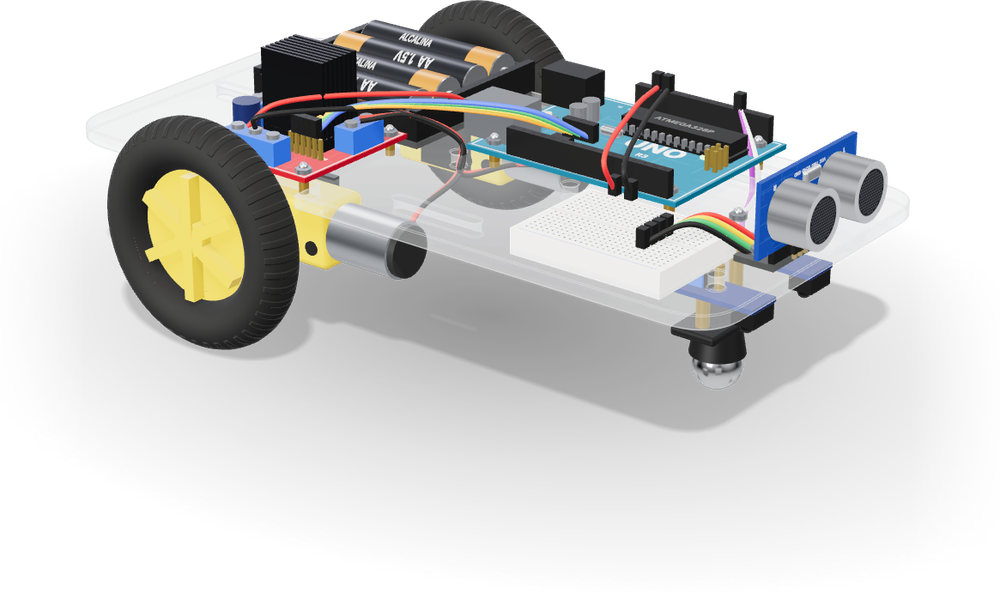
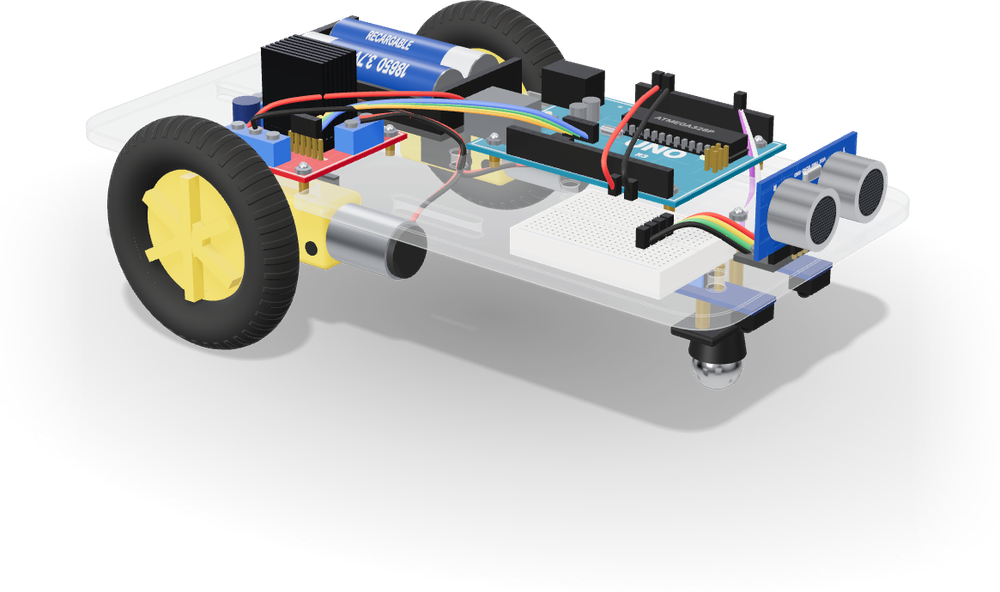
Coche y brazo con portabaterías de dos baterías 18650
Coche 3D de la portada, foto del kit, trasera de la tarjeta láser del
coche, preguntas frecuentes y descripción de las fichas.

Claude-Session: https://claude.ai/code/session_01BpuiLodbabt61LyiaNsDMw

Changed region(s): [[0.31, 0.0304, 0.558, 0.2736], [0.248, 0.0912, 0.279, 0.152]]

diff --git a/frontend/src/components/portada/modeloCoche.ts b/frontend/src/components/portada/modeloCoche.ts
@@ -2,7 +2,7 @@
  * MODELO 3D DEL COCHE SEGUIDOR DE LÍNEAS (portada)
  * Las piezas reales del kit, hechas con formas sencillas y texturas dibujadas en canvas:
  * chasis de metacrilato, placa UNO, protoboard, driver L298N, dos motores TT amarillos con
- * sus ruedas, sensor de ultrasonidos HC-SR04, dos sensores de línea, portapilas 4×AA y cables.
+ * sus ruedas, sensor de ultrasonidos HC-SR04, dos sensores de línea, portabaterías con dos baterías 18650 y cables.
  *
  * Medidas: 1 unidad ≈ 8,5 cm. El eje x apunta hacia delante (donde están los sensores),
  * y hacia arriba y z hacia los lados. El suelo está en y = SUELO.
@@ -549,36 +549,37 @@ export function crearModeloCoche(): ModeloCoche {
   }
 
   // ------------------------------------------------------------------
-  // BATERÍA: portapilas negro con cuatro pilas AA, atrás a la izquierda
+  // BATERÍA: portabaterías negro con dos baterías recargables 18650, atrás a la izquierda
+  // (Jesse, 06-11-2026: los kits van con baterías recargables, no con pilas AA)
   // ------------------------------------------------------------------
   {
     const { mat, malla } = crear("bateria");
     const bx = -0.62;
     const bz = -0.3;
     const negro = mat({ color: 0x141414, roughness: 0.55 });
-    malla(g(new BoxGeometry(0.72, 0.02, 0.64)), negro, bx, 0.01, bz);
-    const pared = g(new BoxGeometry(0.72, 0.1, 0.02));
-    malla(pared, negro, bx, 0.06, bz - 0.31);
-    malla(pared, negro, bx, 0.06, bz + 0.31);
-    const testa = g(new BoxGeometry(0.03, 0.12, 0.64));
-    malla(testa, negro, bx - 0.345, 0.07, bz);
-    malla(testa, negro, bx + 0.345, 0.07, bz);
-    // Pilas: envoltorio impreso (cuerpo oscuro, franja cobre y texto) y extremos metálicos
+    malla(g(new BoxGeometry(0.76, 0.02, 0.44)), negro, bx, 0.01, bz);
+    const pared = g(new BoxGeometry(0.76, 0.12, 0.02));
+    malla(pared, negro, bx, 0.07, bz - 0.21);
+    malla(pared, negro, bx, 0.07, bz + 0.21);
+    const testa = g(new BoxGeometry(0.03, 0.16, 0.44));
+    malla(testa, negro, bx - 0.365, 0.09, bz);
+    malla(testa, negro, bx + 0.365, 0.09, bz);
+    // Baterías 18650 (18 × 65 mm): envoltorio impreso y extremos metálicos
     const envoltorio = mat({ map: tx(texturaPila()), metalness: 0.3, roughness: 0.32 });
     const acero = mat({ color: 0xcfd2d6, metalness: 1, roughness: 0.2 });
-    const cuerpo = g(new CylinderGeometry(0.072, 0.072, 0.58, 40, 1, true));
-    const tapa = g(new CylinderGeometry(0.07, 0.07, 0.01, 28));
-    const polo = g(new CylinderGeometry(0.025, 0.025, 0.03, 16));
-    for (let i = 0; i < 4; i++) {
-      const z = bz - 0.225 + i * 0.15;
-      const sentido = i % 2 === 0 ? 1 : -1; // alternadas, como en un portapilas de verdad
-      // rotation.z = -π/2 lleva la parte de arriba del cilindro (la franja cobre) hacia +x
-      const pila = malla(cuerpo, envoltorio, bx, 0.095, z);
-      pila.rotation.z = -sentido * (Math.PI / 2);
-      pila.rotation.x = 0.6;
-      malla(tapa, acero, bx + sentido * 0.29, 0.095, z).rotation.z = Math.PI / 2;
-      malla(tapa, acero, bx - sentido * 0.29, 0.095, z).rotation.z = Math.PI / 2;
-      malla(polo, acero, bx + sentido * 0.305, 0.095, z).rotation.z = Math.PI / 2;
+    const cuerpo = g(new CylinderGeometry(0.09, 0.09, 0.62, 40, 1, true));
+    const tapa = g(new CylinderGeometry(0.088, 0.088, 0.01, 28));
+    const polo = g(new CylinderGeometry(0.03, 0.03, 0.02, 16));
+    for (let i = 0; i < 2; i++) {
+      const z = bz - 0.095 + i * 0.19;
+      const sentido = i % 2 === 0 ? 1 : -1; // alternadas, como en un portabaterías de verdad
+      // rotation.z = -π/2 lleva la parte de arriba del cilindro (la franja de color) hacia +x
+      const bateria = malla(cuerpo, envoltorio, bx, 0.115, z);
+      bateria.rotation.z = -sentido * (Math.PI / 2);
+      bateria.rotation.x = 0.6;
+      malla(tapa, acero, bx + sentido * 0.31, 0.115, z).rotation.z = Math.PI / 2;
+      malla(tapa, acero, bx - sentido * 0.31, 0.115, z).rotation.z = Math.PI / 2;
+      malla(polo, acero, bx + sentido * 0.325, 0.115, z).rotation.z = Math.PI / 2;
     }
   }
 
@@ -674,7 +675,7 @@ export function crearModeloCoche(): ModeloCoche {
           false,
         );
     }
-    // Portapilas → borne de alimentación del driver
+    // Portabaterías → borne de alimentación del driver
     cable(
       R,
       [

diff --git a/frontend/src/components/portada/texturasRobot.ts b/frontend/src/components/portada/texturasRobot.ts
@@ -195,27 +195,28 @@ export const texturaDibujoNeumatico = () => {
   return t;
 };
 
-/** Envoltorio de una pila AA: cuerpo oscuro, franja cobre en el polo positivo y el texto */
+/** Envoltorio de una batería recargable 18650: cuerpo azul, franja clara en el polo positivo y el texto */
 export const texturaPila = () => {
   const t = textura(256, 512, (ctx, w, h) => {
     const degradado = ctx.createLinearGradient(0, 0, w, 0);
-    degradado.addColorStop(0, "#1d1f23");
-    degradado.addColorStop(0.5, "#2c2f35");
-    degradado.addColorStop(1, "#1d1f23");
+    // Batería recargable 18650: envoltorio azul con franja clara
+    degradado.addColorStop(0, "#1b3a7a");
+    degradado.addColorStop(0.5, "#2a55a8");
+    degradado.addColorStop(1, "#1b3a7a");
     ctx.fillStyle = degradado;
     ctx.fillRect(0, 0, w, h);
-    ctx.fillStyle = "#c47a36";
+    ctx.fillStyle = "#d9dde6";
     ctx.fillRect(0, 0, w, h * 0.2);
     ctx.fillStyle = "#e8e8e8";
     ctx.save();
     ctx.translate(w * 0.25, h * 0.6);
     ctx.rotate(-Math.PI / 2);
-    texto(ctx, "AA  1.5V", 0, 0, 34, 700, "center");
+    texto(ctx, "18650  3.7V", 0, 0, 34, 700, "center");
     ctx.restore();
     ctx.save();
     ctx.translate(w * 0.75, h * 0.6);
     ctx.rotate(-Math.PI / 2);
-    texto(ctx, "ALCALINA", 0, 0, 24, 600, "center");
+    texto(ctx, "RECARGABLE", 0, 0, 24, 600, "center");
     ctx.restore();
   });
   return t;

diff --git a/frontend/src/config/preguntas.ts b/frontend/src/config/preguntas.ts
@@ -57,7 +57,7 @@ export function preguntasFrecuentes({
           pregunta: "¿Qué necesito además del kit?",
           respuesta: [
             "Un ordenador (Windows, Mac o Linux) para programar la placa. El programa que se usa, Arduino, es gratuito y en el curso te enseñamos a instalarlo paso a paso. El cable USB para conectar la placa al ordenador va en la caja.",
-            "El coche funciona con 4 pilas AA y el brazo, que tiene servos de mucha fuerza, con dos baterías recargables. Las pilas y las baterías ya vienen en la caja. La estación meteorológica no necesita pilas: va conectada por USB.",
+            "El coche y el brazo funcionan con dos baterías recargables 18650, y ya vienen en la caja. La estación meteorológica no necesita baterías: va conectada por USB.",
           ],
         },
         {

diff --git a/frontend/src/lib/tarjetaLaser/dibujosKit.ts b/frontend/src/lib/tarjetaLaser/dibujosKit.ts
@@ -154,9 +154,9 @@ function coche(): Forma[] {
   g.push(relleno(rect(-1.2, -5.6, 4.8, 1.6)));
   g.push(relleno(rect(-7, -6.6, 2.2, 2.4)));
   g.push(relleno(rect(-4.2, -3.6, 1.6, 1.3)));
-  // Portapilas con las 4 pilas
+  // Portabaterías con las 2 baterías recargables 18650
   g.push(sil(caja(-4.6, 0.4, 9.2, 9, 0.6), 0.32));
-  for (const x of [-3.3, -1.1, 1.1, 3.3]) g.push(sil(capsula([x, 2.2], [x, 7.6], 0.75), 0.25));
+  for (const x of [-2.2, 2.2]) g.push(sil(capsula([x, 2.4], [x, 7.4], 1.45), 0.25));
   // Motores con reductora y ruedas con el dibujo de la goma
   for (const lado of [-1, 1]) {
     const xm = lado < 0 ? -8 : 5.2;

diff --git a/frontend/src/app/(tienda)/kits/[slug]/page.tsx b/frontend/src/app/(tienda)/kits/[slug]/page.tsx
@@ -60,7 +60,7 @@ export async function generateMetadata({ params }: Props): Promise<Metadata> {
     descripcion:
       kit.precioCentimos === 0
         ? `${kit.eslogan} Gratis y sin piezas: se activa al momento en tu cuenta.`
-        : `${kit.eslogan} Kit para montar con todas las piezas, pilas y cable USB, y un curso en vídeo paso a paso. Sin saber programar, desde ${kit.edadMinima} años.`,
+        : `${kit.eslogan} Kit para montar con todas las piezas, baterías y cable USB, y un curso en vídeo paso a paso. Sin saber programar, desde ${kit.edadMinima} años.`,
     ruta: `/kits/${kit.slug}`,
   });
 }

diff --git a/frontend/src/components/portada/piezasRobot.ts b/frontend/src/components/portada/piezasRobot.ts
@@ -46,7 +46,7 @@ export const PIEZAS_ROBOT: PiezaRobot[] = [
   {
     id: "bateria",
     titulo: "La batería",
-    texto: "La energía para que funcione solo, sin cables, durante horas.",
+    texto: "Dos baterías recargables: la energía para que funcione solo, sin cables, durante horas.",
     direccion3d: [-0.7, 0.8, -0.4],
     direccion2d: [-110, -70],
   },

diff --git a/CLAUDE.md b/CLAUDE.md
@@ -44,6 +44,10 @@ hasta que todo esté probado.
   `/tarjeta-muestra/<cara>.svg` (`src/app/tarjeta-muestra`, `src/lib/tarjetaLaser/muestra.ts`), generadas al compilar.
   La portada pasaba de 1,4 MB de HTML por los trazados del láser (salían dos veces).
 - Con la tienda cerrada, los botones «Comprar» de la portada dicen «Avísame cuando abra».
+- Jesse: montaje «plug & play» (se enchufa, encaja o va con imanes). Coche y brazo van con **portabaterías de dos
+  baterías recargables 18650** (incluidas), no con pilas AA: cambiado en el coche 3D (`modeloCoche.ts`, a petición
+  suya), su foto (`fotos:piezas -- --kits`), la trasera láser del coche y las preguntas frecuentes. El brazo usa
+  servos de alto par (MG996R). Las piezas de cada kit se cambian en el panel (la BD manda).
 
 ### Editores y guiones de marketing (05-11-2026, rama `feature/editores-guiones`)
 
